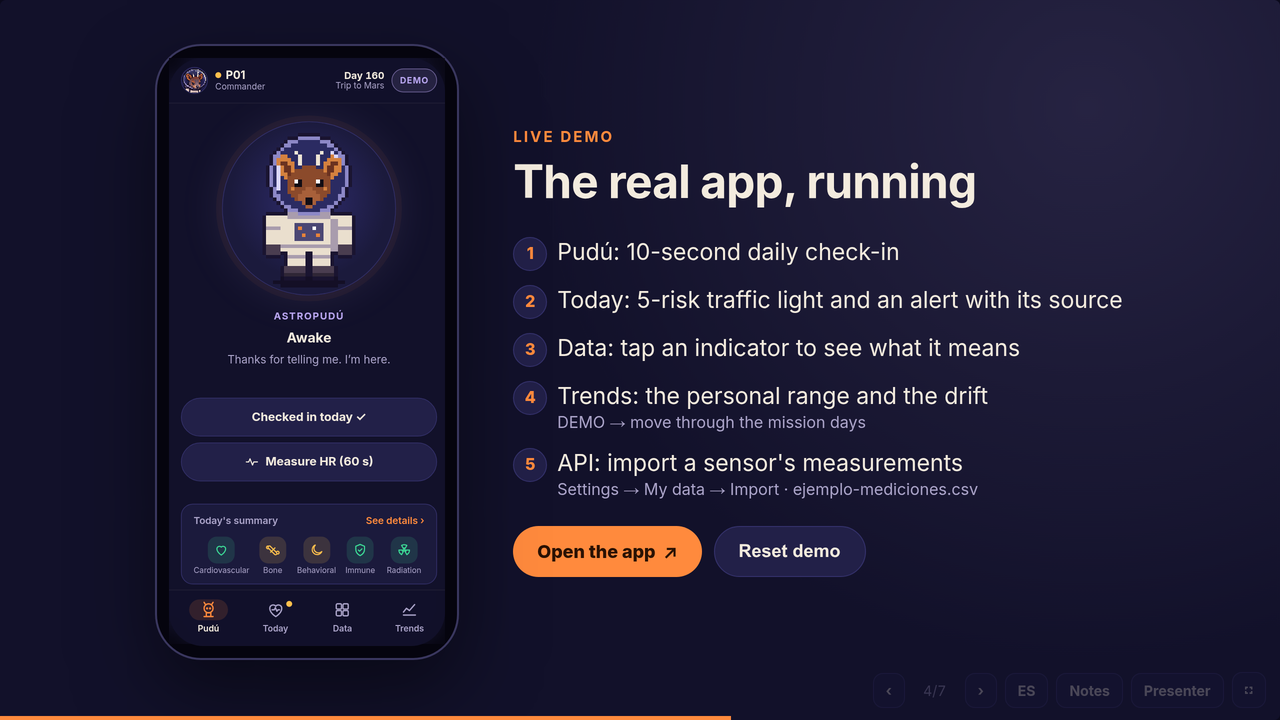
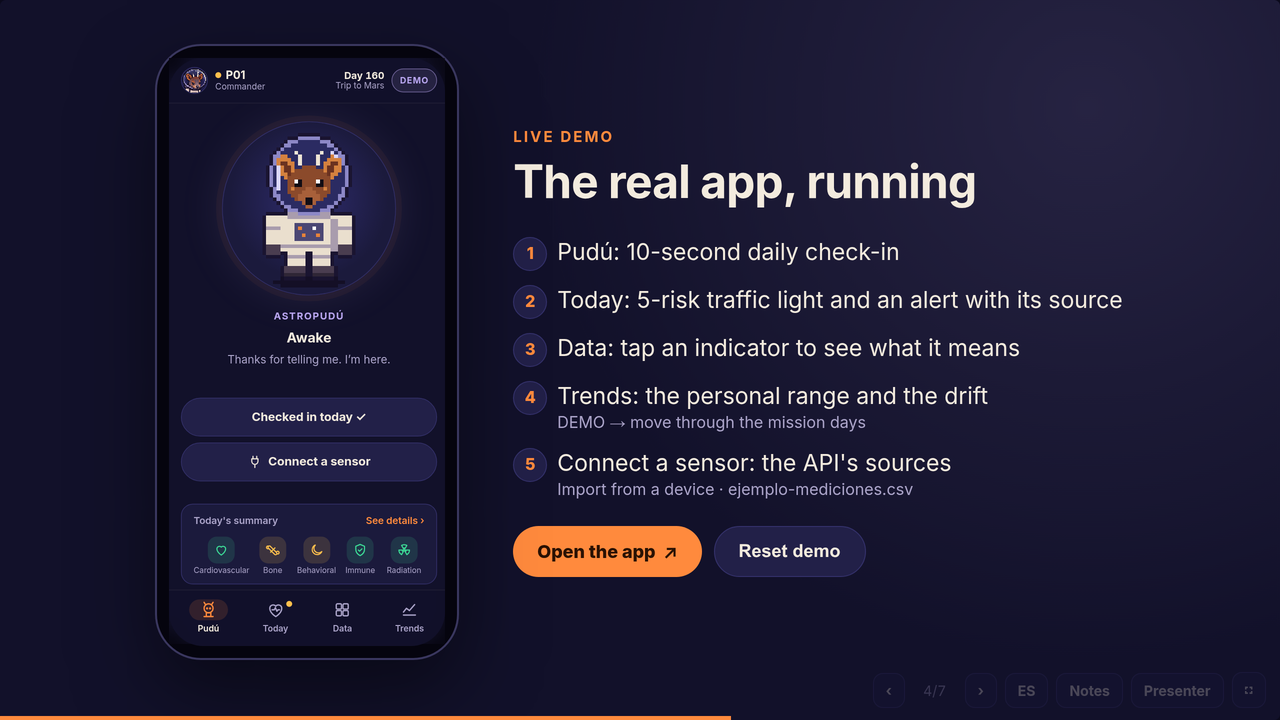
Pitch, READMEs and previews show Connect a sensor; Spanish narration with Catalina
The live demo's last step opens Connect a sensor. The Spanish video
voice is now es-CL-CatalinaNeural; its closing line is shorter to fit.

Changed region(s): [[0.4375, 0.6111, 0.75, 0.7028], [0.1875, 0.6111, 0.2812, 0.6722]]

diff --git a/pitch/index.html b/pitch/index.html
@@ -246,7 +246,7 @@ body.presentador .vista-presentador { display: grid; gap: 18px; }
         <li><span><span lang="es">Hoy: semáforo de 5 riesgos y alerta con su fuente</span><span lang="en">Today: 5-risk traffic light and an alert with its source</span></span></li>
         <li><span><span lang="es">Datos: tocar un indicador y ver qué significa</span><span lang="en">Data: tap an indicator to see what it means</span></span></li>
         <li><span><span lang="es">Tendencias: el rango personal y la deriva</span><span lang="en">Trends: the personal range and the drift</span><span class="tenue"><span lang="es">DEMO → avanzar los días de la misión</span><span lang="en">DEMO → move through the mission days</span></span></span></li>
-        <li><span><span lang="es">API: importar las mediciones de un sensor</span><span lang="en">API: import a sensor's measurements</span><span class="tenue"><span lang="es">Ajustes → Mis datos → Importar · ejemplo-mediciones.csv</span><span lang="en">Settings → My data → Import · ejemplo-mediciones.csv</span></span></span></li>
+        <li><span><span lang="es">Conectar sensor: las fuentes de la API</span><span lang="en">Connect a sensor: the API's sources</span><span class="tenue"><span lang="es">Importar de un equipo · ejemplo-mediciones.csv</span><span lang="en">Import from a device · ejemplo-mediciones.csv</span></span></span></li>
       </ol>
       <div class="botones">
         <a class="boton" id="abrir-app" href="../app/index.html?demo=1&amp;intro=0" target="_blank" rel="noopener"><span lang="es">Abrir la app</span><span lang="en">Open the app</span> ↗</a>
@@ -254,8 +254,8 @@ body.presentador .vista-presentador { display: grid; gap: 18px; }
       </div>
     </div>
     <aside class="notas">
-      <p lang="es">Esta es la app real, la misma que se instala en el celular. (Tocar dentro del teléfono; para volver a las diapositivas, hacer clic fuera.) Uno: registro diario, diez segundos. Dos: Hoy, el semáforo de cinco riesgos de NASA y una alerta con su fuente. Tres: tocar un indicador explica qué es y cuándo pedir ayuda. Cuatro: en DEMO avanzo los días y se ve cómo la persona se aleja de su propio rango. Cinco: la API; importo las mediciones de una banda y un termómetro (docs/ejemplo-mediciones.csv) y entran igual que cualquier otra fuente.</p>
-      <p lang="en">This is the real app, the same one you install on a phone. (Tap inside the phone; click outside to return to the slides.) One: the daily check-in, ten seconds. Two: Today, the traffic light for five NASA risks and an alert with its source. Three: tapping an indicator explains what it is and when to ask for help. Four: in DEMO I move through the days and you see the person drift from their own range. Five: the API; I import a chest strap's and a thermometer's measurements (docs/ejemplo-mediciones.csv) and they enter like any other source.</p>
+      <p lang="es">Esta es la app real, la misma que se instala en el celular. (Tocar dentro del teléfono; para volver a las diapositivas, hacer clic fuera.) Uno: registro diario, diez segundos. Dos: Hoy, el semáforo de cinco riesgos de NASA y una alerta con su fuente. Tres: tocar un indicador explica qué es y cuándo pedir ayuda. Cuatro: en DEMO avanzo los días y se ve cómo la persona se aleja de su propio rango. Cinco: Conectar sensor muestra las fuentes de la API con su estado: Bluetooth diseñado, importación y API funcionando, la cámara como alternativa. Importo las mediciones de una banda y un termómetro (docs/ejemplo-mediciones.csv) y entran igual que cualquier otra fuente.</p>
+      <p lang="en">This is the real app, the same one you install on a phone. (Tap inside the phone; click outside to return to the slides.) One: the daily check-in, ten seconds. Two: Today, the traffic light for five NASA risks and an alert with its source. Three: tapping an indicator explains what it is and when to ask for help. Four: in DEMO I move through the days and you see the person drift from their own range. Five: Connect a sensor lists the API's sources with their status: Bluetooth designed, import and API working, the camera as a fallback. I import a chest strap's and a thermometer's measurements (docs/ejemplo-mediciones.csv) and they enter like any other source.</p>
     </aside>
   </section>
 

diff --git a/app/README.md b/app/README.md
@@ -19,6 +19,7 @@ línea base y decide con reglas citadas. El diseño completo está en [`docs/pla
 | `js/cifrado.js` | Cifrado en el dispositivo: AES-GCM de 256 bits, llave del dispositivo no exportable o PIN opcional (PBKDF2). Ver [`docs/privacidad.es.md`](../docs/privacidad.es.md) |
 | `js/personal.js` | Mi registro: días de calibración, escenario personal y datos guardados en el dispositivo |
 | `js/ui.js` | Piezas de interfaz: hoja inferior, avisos breves y vibración |
+| `index.html` → *Conectar sensor* | Hoja con las fuentes de la API y su estado: Bluetooth estándar (diseñado), importar de un equipo y API para desarrolladores (funcionan), cámara del celular (alternativa) |
 | `js/entrada.js` | API abierta de la plataforma (`window.puduHealth`): cualquier sensor o equipo entrega mediciones en un formato único (`puduhealth/v1`), por la API en la página, por archivo JSON/CSV o por el adaptador de la cámara. Ver [`docs/conexion.md`](../docs/conexion.md) y la [wiki de la API](https://github.com/TecMedHub/puduhealth/wiki) |
 | `sw.js` | Modo sin conexión: guarda los archivos de la app en el dispositivo en la primera visita; una versión nueva se activa al aceptar el aviso |
 | `manifest.webmanifest` | App instalable: nombre, íconos (dibujados desde el sprite del acompañante) y atajos |

diff --git a/README.es.md b/README.es.md
@@ -256,7 +256,9 @@ descarga y procesa. Lista completa con enlaces: [plan del proyecto](docs/plan.es
 
 ## 5. La app
 
-- **API abierta para equipos.** Sensores y equipos envían mediciones en el formato `puduhealth/v1`;
+- **API abierta para equipos.** *Conectar sensor*, en la pantalla principal, muestra las fuentes con
+  su estado (Bluetooth estándar: diseñado; importar de un equipo y API para desarrolladores:
+  funcionan; cámara del celular: alternativa). Sensores y equipos envían mediciones en el formato `puduhealth/v1`;
   la app las muestra con la misma línea base y las mismas reglas, venga de donde venga ([wiki de la API](https://github.com/TecMedHub/puduhealth/wiki)).
 - **Celular primero, instalable.** Cuatro secciones en una barra inferior: **Pudú** (acompañante,
   registro, medición), **Hoy** (estado general, cinco riesgos, alertas), **Datos** (indicadores con

diff --git a/README.md b/README.md
@@ -248,7 +248,9 @@ processes them. Full list with links: [project plan](docs/plan.en.md), section 1
 
 ## 5. The app
 
-- **Open API for devices.** Sensors and equipment send measurements in the `puduhealth/v1` format;
+- **Open API for devices.** *Connect a sensor*, on the main screen, lists the sources with their
+  status (standard Bluetooth: designed; device import and developer API: working; phone camera:
+  fallback). Sensors and equipment send measurements in the `puduhealth/v1` format;
   the app shows them with the same baseline and rules whatever the source ([API wiki](https://github.com/TecMedHub/puduhealth/wiki)).
 - **Phone first, installable.** Four sections in a bottom bar: **Pudú** (companion, check-in,
   measurement), **Today** (overall status, five risks, alerts), **Data** (indicators with a

diff --git a/video/README.md b/video/README.md
@@ -41,7 +41,7 @@ Repetir con `--idioma en` y `--formato horizontal` para las otras versiones.
 `node video/grabar.mjs … --cuadros 7,18,24` captura sólo esos segundos como imágenes, para revisar
 el encuadre antes de grabar los 900 cuadros.
 
-**Narración:** voz neuronal de Microsoft mediante `edge-tts`: `es-CL-LorenzoNeural` (español de
+**Narración:** voz neuronal de Microsoft mediante `edge-tts`: `es-CL-CatalinaNeural` (español de
 Chile) y `en-US-AndrewNeural` (inglés). Los guiones están en `narracion.es.json` y
 `narracion.en.json`; los subtítulos se sincronizan con cada frase hablada.
 
